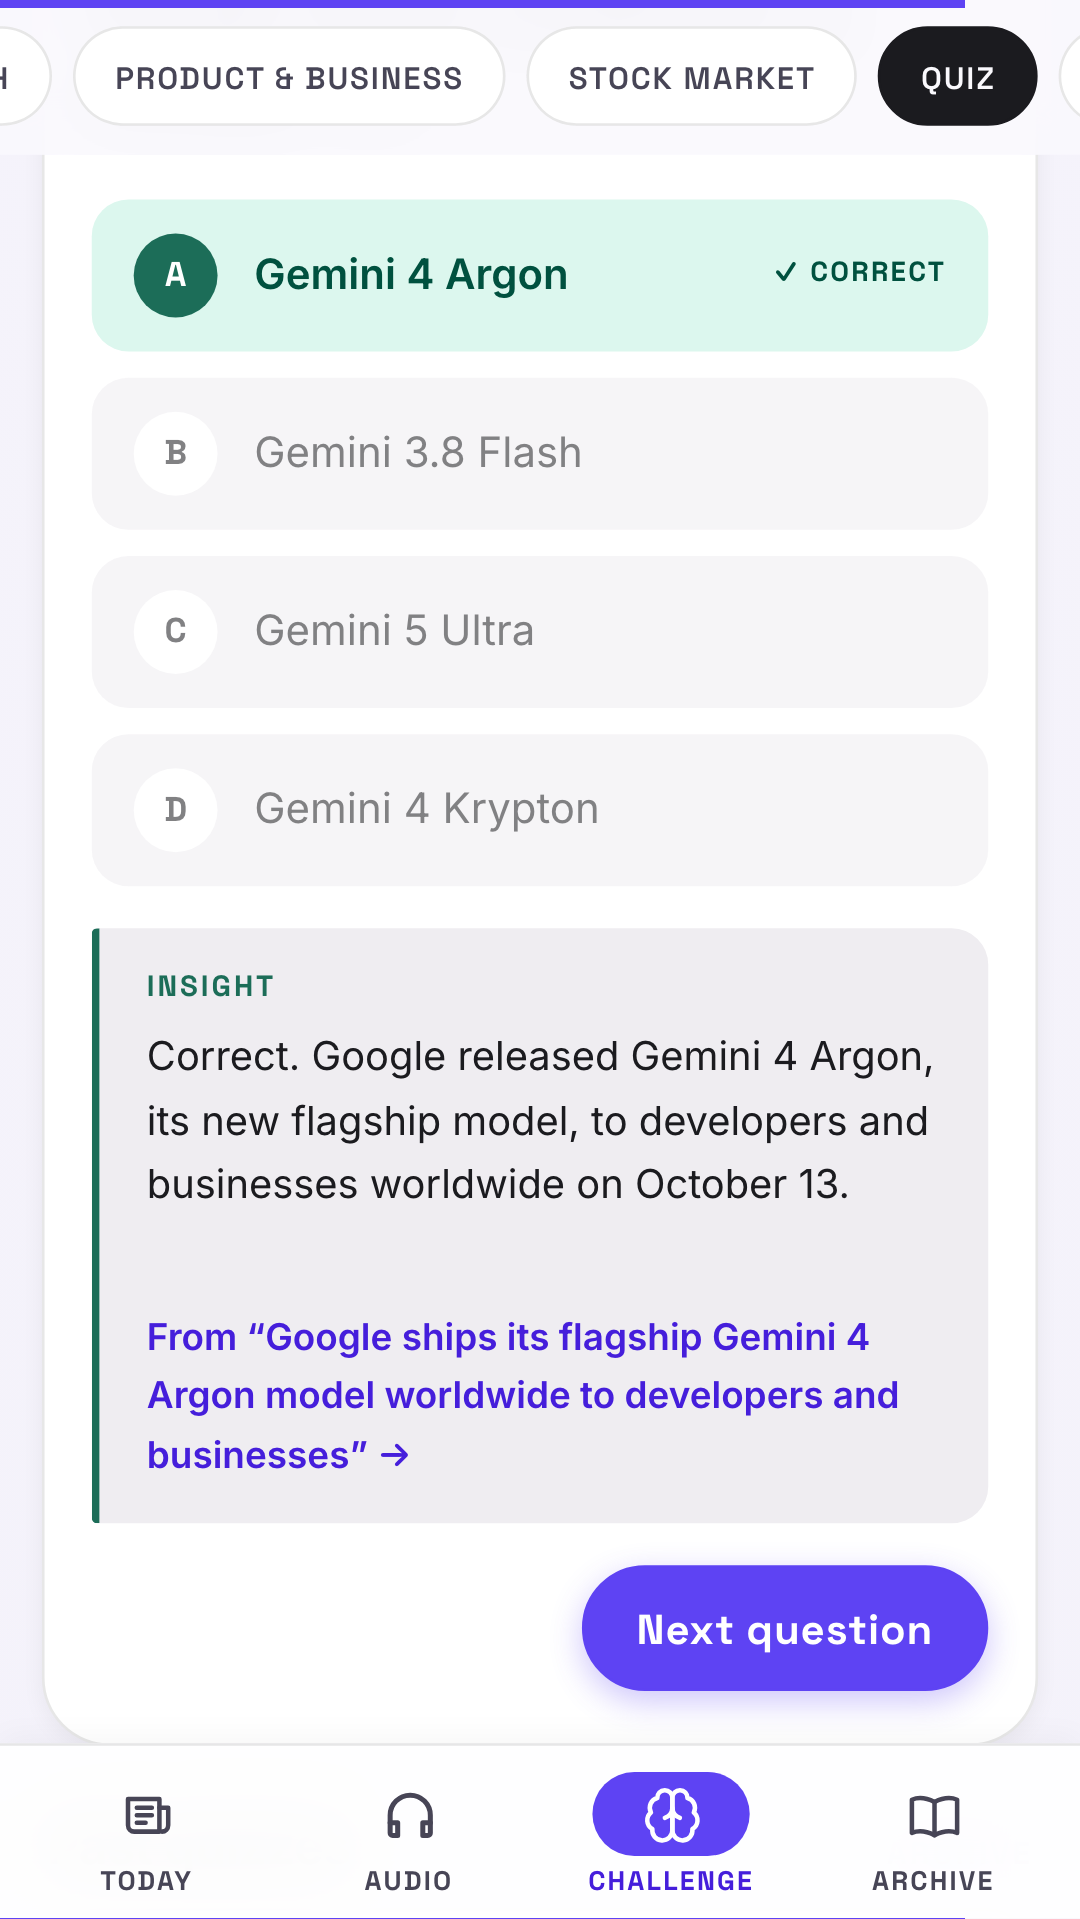
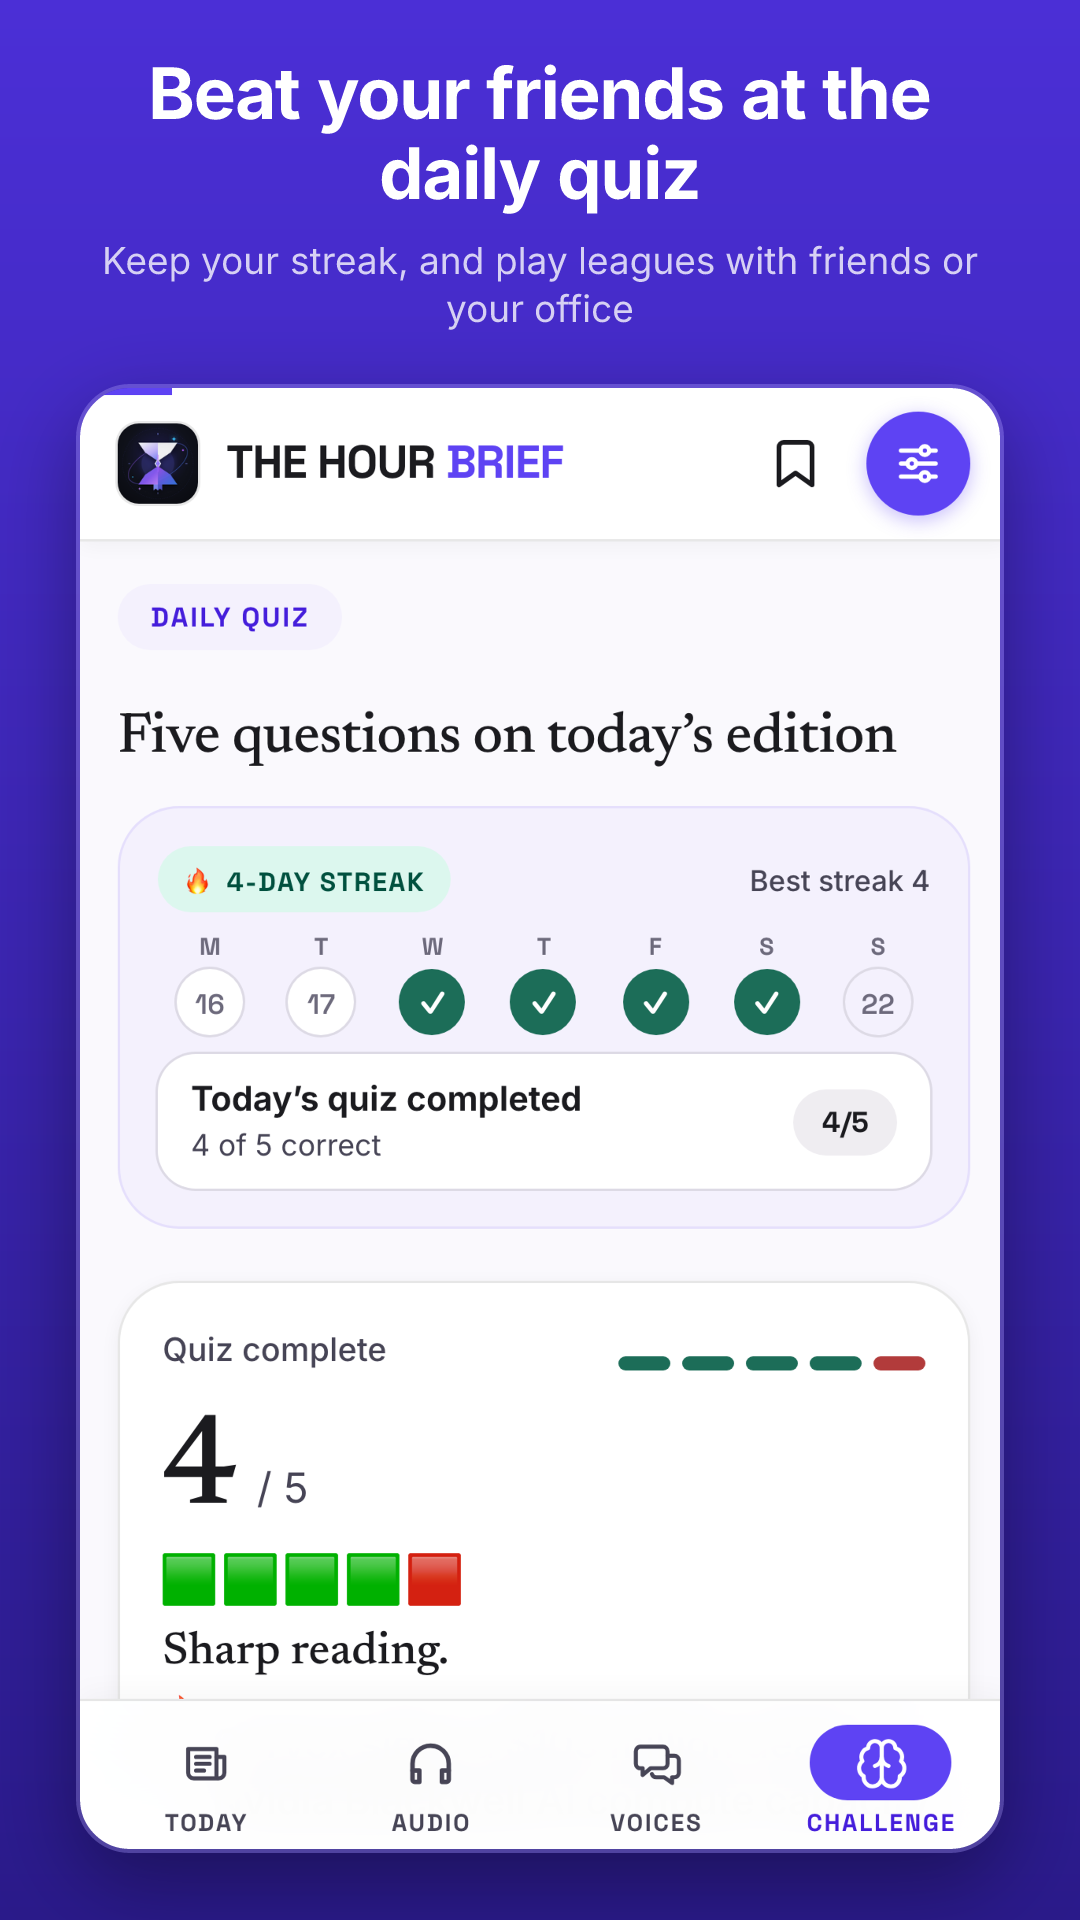
Store screenshots: a framed set (caption + current UI) for Play, iPhone 6.9 / 6.5 and iPad - cards, story, listen, quiz, Voices, dark

diff --git a/mobile/app-store/listing.md b/mobile/app-store/listing.md
@@ -4,7 +4,7 @@ Screenshots (in git, upload from here), all light + dark, numbered in the order 
 `mobile/app-store/screenshots/` iPhone 6.9-inch, 7 × 1320×2868 (cover, swipe cards, feed, highlights, Audio, quiz, Your sections)
 `mobile/app-store/screenshots-6.5in/` iPhone 6.5-inch, 7 × 1242×2688 (same seven) — this is the size App Store Connect's "Prepare for Submission" page actually asked for on this app's first version; use these if the 6.9-inch ones don't fit that tab.
 `mobile/app-store/screenshots-ipad/` iPad 13-inch, 7 × 2064×2752 (same seven; needed because the app runs on iPad)
-Remake them any time from the live UI: `node tools/brand/screenshots.mjs --only app-store`.
+**2026-11-21: new framed set, 6 shots each (caption on the brand background + the current app UI): 01 cards, 02 story, 03 listen, 04 quiz, 05 Voices, 06 dark list.** Remake any time: `node tools/brand/store-shots.mjs` (writes all four sets). Upload in order 01–06; delete the old seven in App Store Connect first.
 App icon: 1024×1024, RGB, no alpha (checked), already in `ios/App/App/Assets.xcassets`.
 
 ## Your steps, in order (values to type in)
